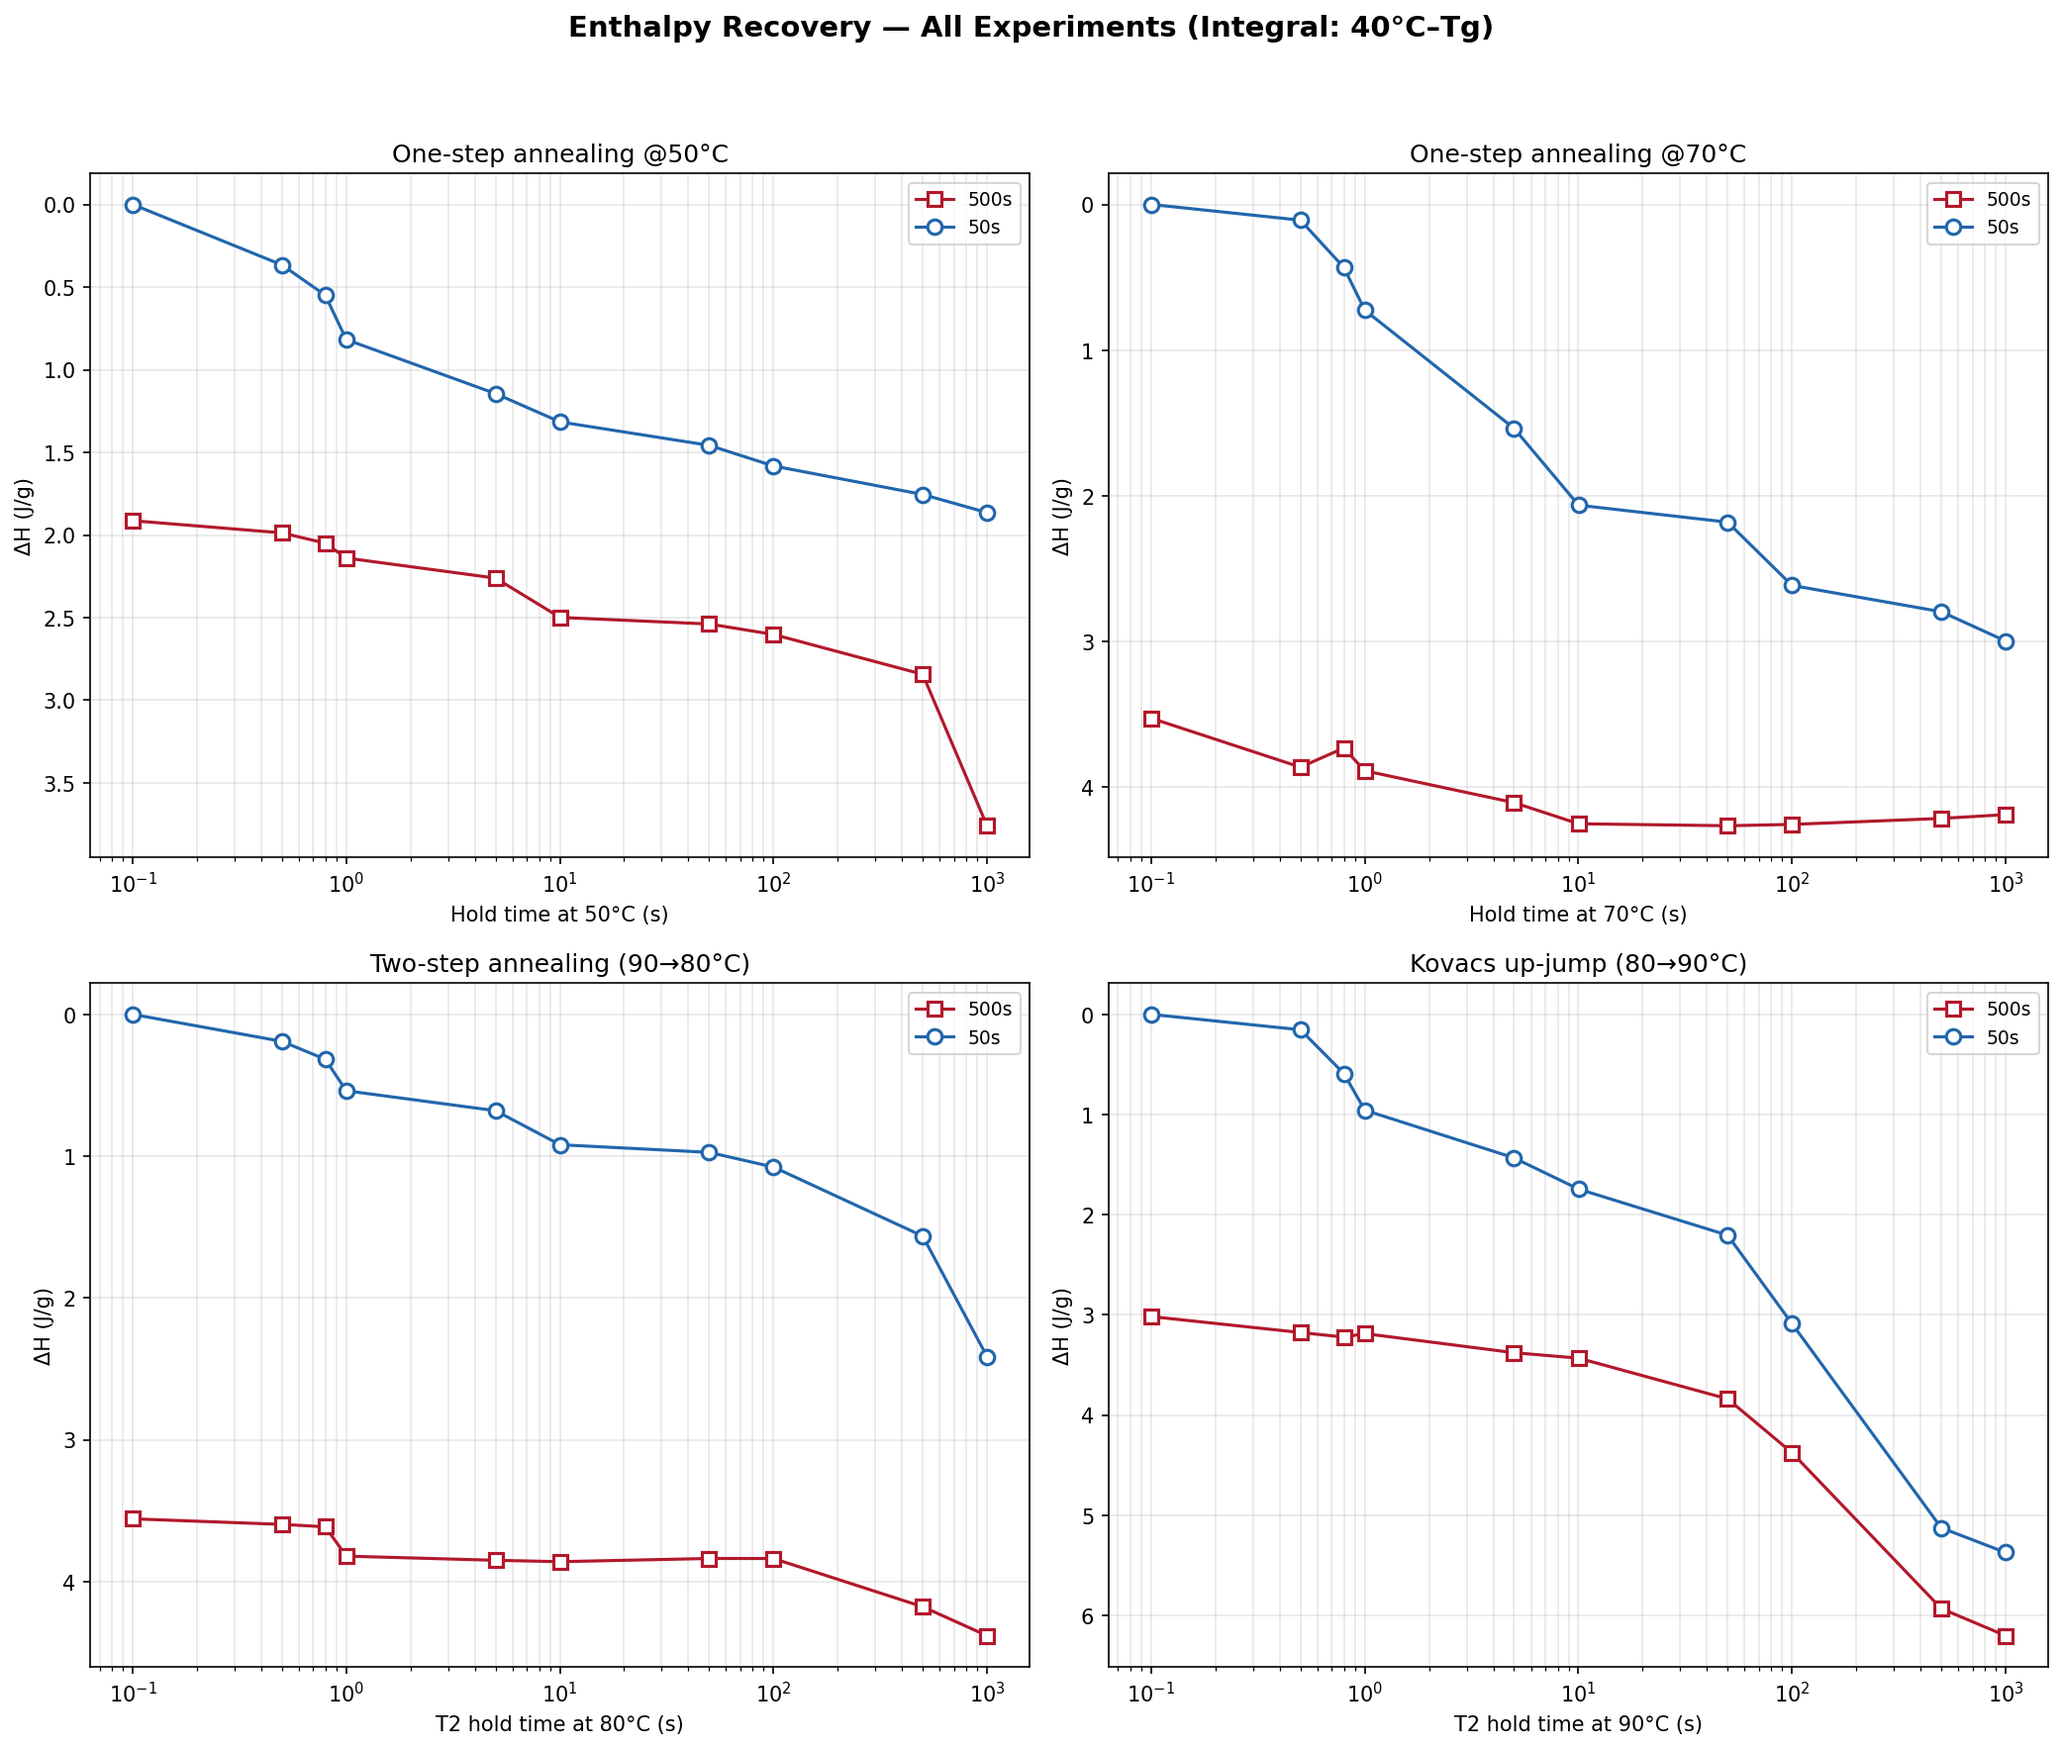
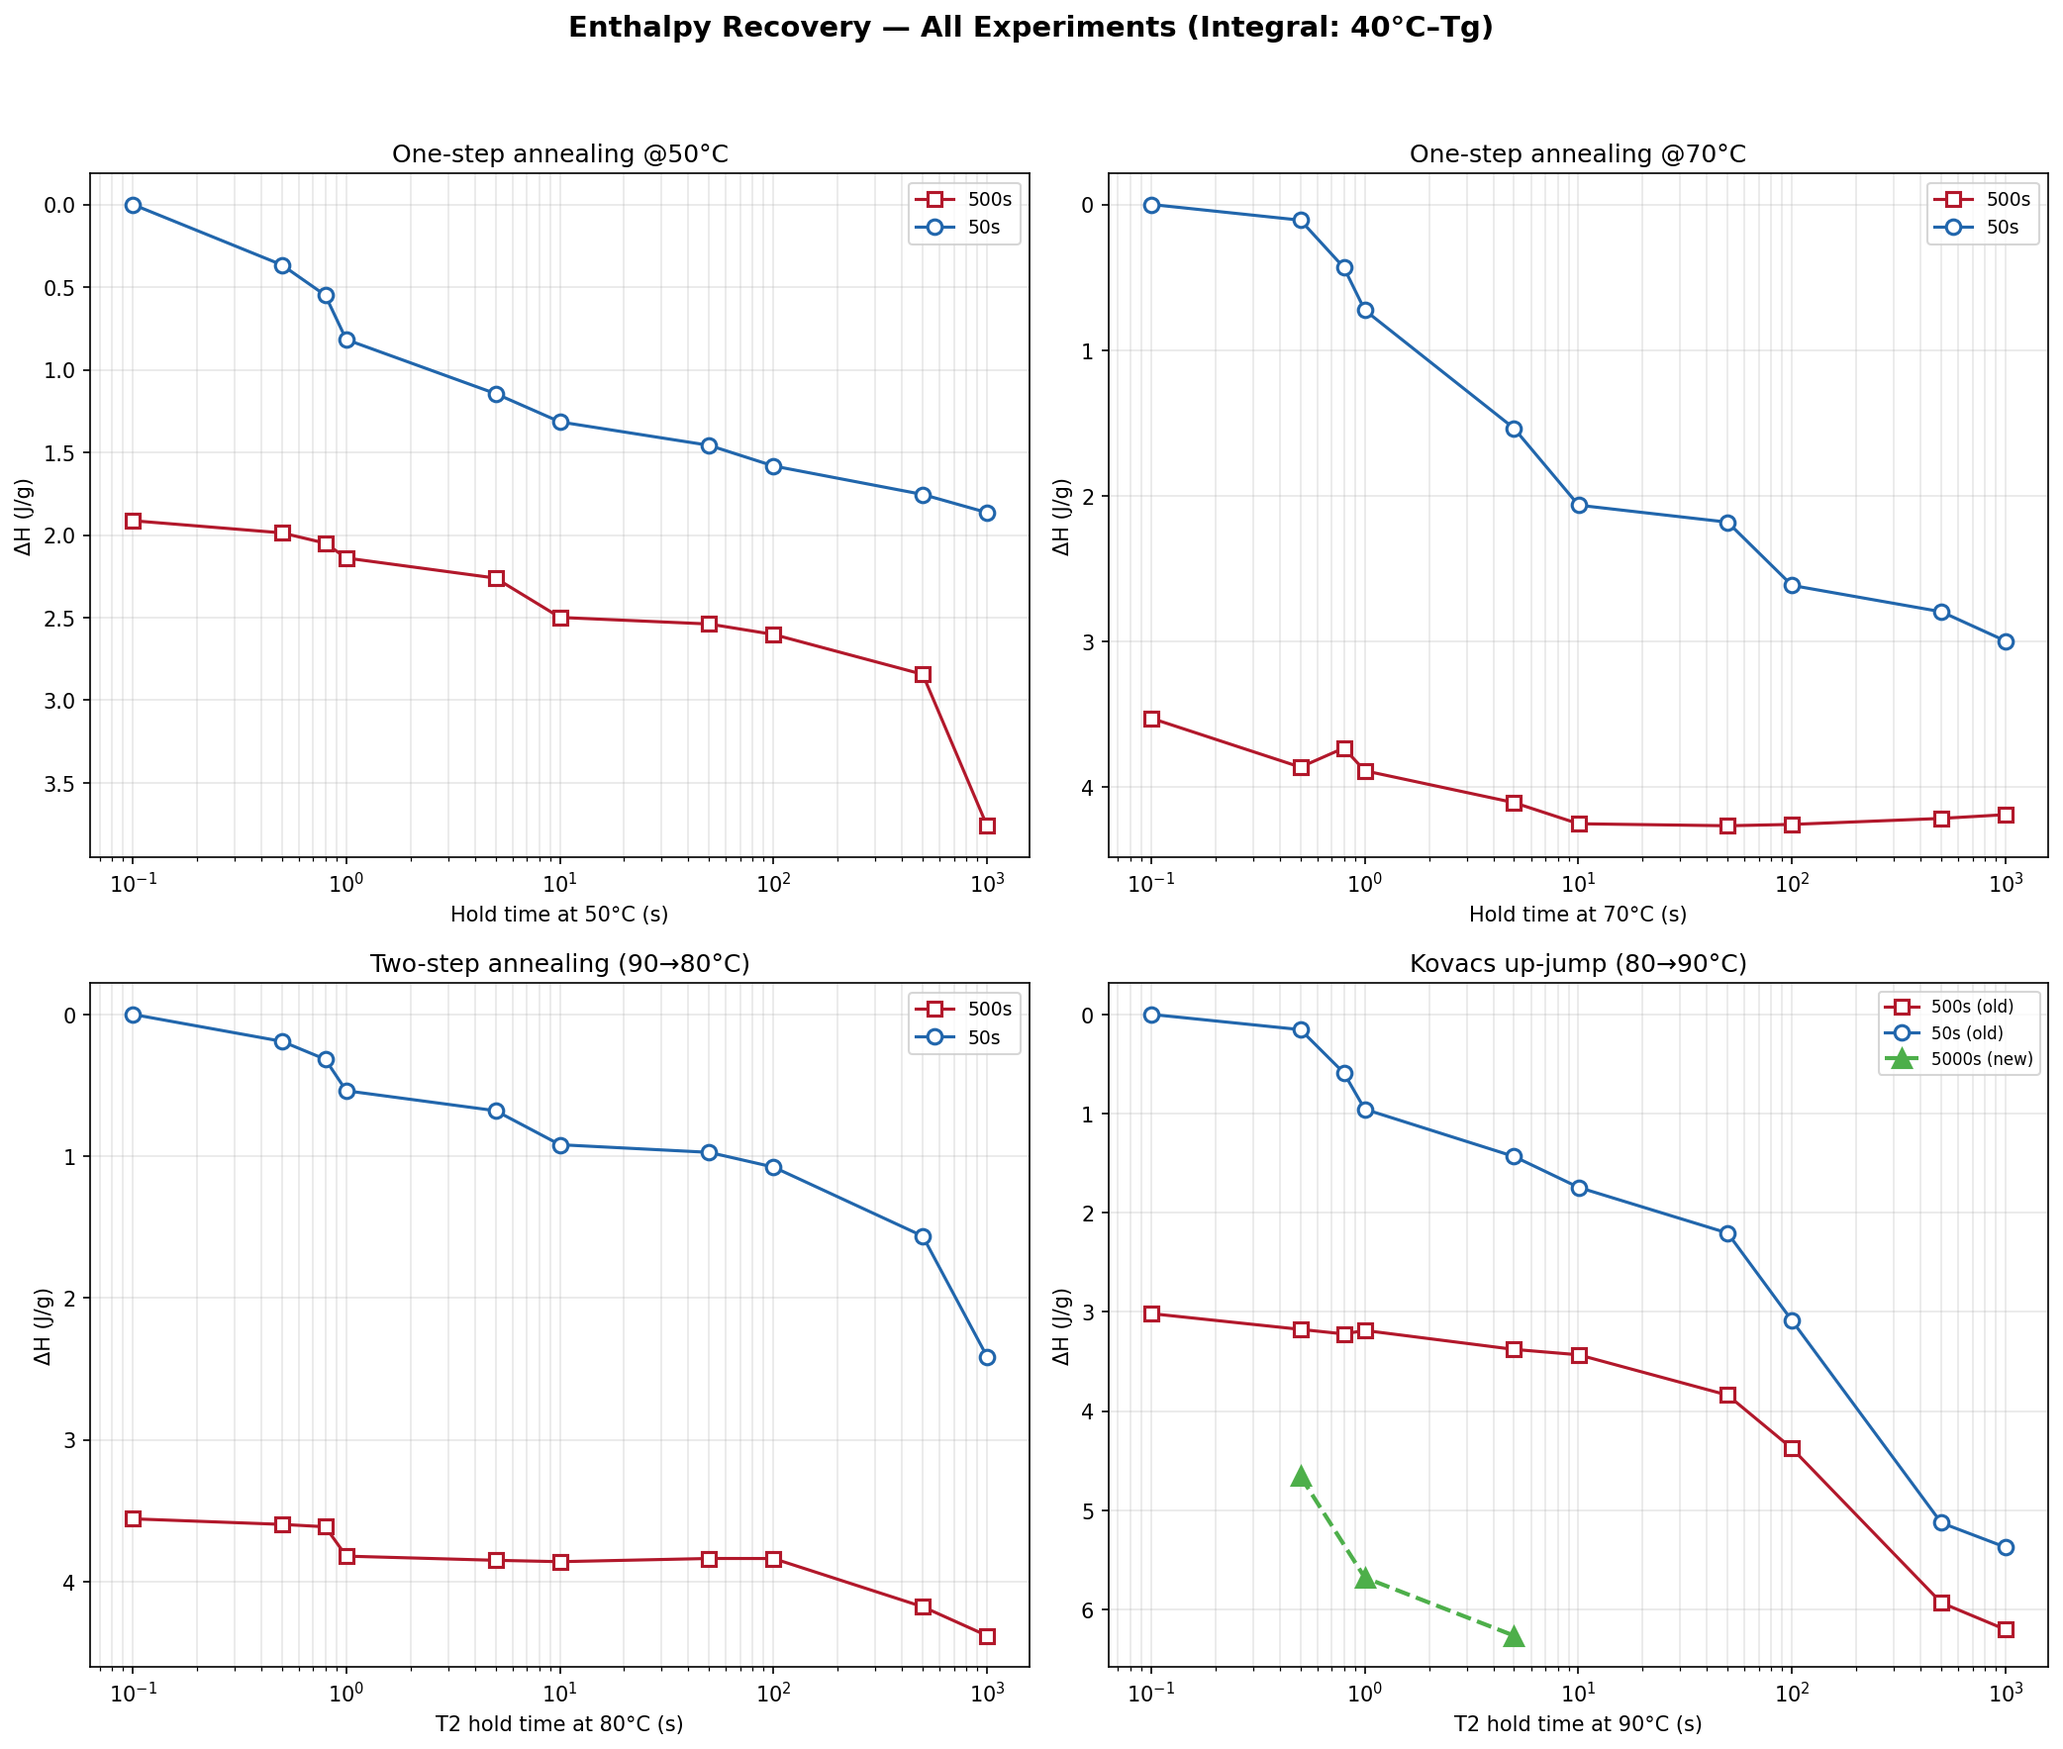
2026-05-18 17:09 - auto commit

diff --git a/src/export_enthalpy.py b/src/export_enthalpy.py
@@ -540,14 +540,17 @@ def main():
 
     # ── Generate plots ──
     print(f"\n[6/7] Generating combined result plots...")
-    plot_all_results(df_os_50, df_os_70, df_ts, df_kov, t_int_low)
+    plot_all_results(df_os_50, df_os_70, df_ts, df_kov, t_int_low,
+                     df_kov_new=df_kov_new)
 
     print(f"\n[7/7] Generating new Kovacs 80→90°C plot...")
     plot_kovacs_new(df_kov_new, ref_T_onset, t_int_low)
 
 
-def plot_all_results(df_os_50, df_os_70, df_ts, df_kov, t_int_low=None):
-    """Generate 2x2 comparison plot for all experiments."""
+def plot_all_results(df_os_50, df_os_70, df_ts, df_kov, t_int_low=None,
+                     df_kov_new=None):
+    """Generate 2x2 comparison plot for all experiments.
+    If df_kov_new is provided, it is overlaid on the Kovacs panel."""
     import matplotlib
     matplotlib.use('Agg')
     import matplotlib.pyplot as plt
@@ -566,12 +569,13 @@ def plot_all_results(df_os_50, df_os_70, df_ts, df_kov, t_int_low=None):
     def _get_group_colors_markers(all_dfs):
         all_groups = set()
         for df in all_dfs:
-            all_groups.update(_get_groups(df))
+            if df is not None:
+                all_groups.update(_get_groups(df))
         groups_sorted = sorted(all_groups, key=lambda x: int(x.replace('s', '')) if x.replace('s', '').isdigit() else 0)
         return ({g: color_cycle[i % len(color_cycle)] for i, g in enumerate(groups_sorted)},
                 {g: marker_cycle[i % len(marker_cycle)] for i, g in enumerate(groups_sorted)})
 
-    colors, markers = _get_group_colors_markers([df_os_50, df_os_70, df_ts, df_kov])
+    colors, markers = _get_group_colors_markers([df_os_50, df_os_70, df_ts, df_kov, df_kov_new])
 
     def plot_one(ax, df, title, x_col, xlabel):
         grp_col = 'cooling_group' if 'cooling_group' in df.columns else 'T1_group'
@@ -601,22 +605,32 @@ def plot_all_results(df_os_50, df_os_70, df_ts, df_kov, t_int_low=None):
     plot_one(axes[1, 0], df_ts, 'Two-step annealing (90→80°C)', 'T2_hold_s',
              'T2 hold time at 80°C (s)')
 
-    # Panel 4: Kovacs
+    # Panel 4: Kovacs (old + new overlaid)
     ax4 = axes[1, 1]
     grp_col = 'T1_group'
+    # Old Kovacs data — solid lines
     for grp in sorted(df_kov[grp_col].unique()):
         g = df_kov[df_kov[grp_col] == grp]
         if len(g) > 0:
             ax4.plot(g['T2_hold_s'], g['delta_H_J_per_g'],
                      marker=markers.get(grp, 'o'), color=colors.get(grp, 'gray'),
                      linewidth=1.5, markersize=7, markerfacecolor='white',
-                     markeredgewidth=1.5, label=grp)
+                     markeredgewidth=1.5, linestyle='-', label=f'{grp} (old)')
+    # New Kovacs data — dashed lines with larger markers
+    if df_kov_new is not None and len(df_kov_new) > 0:
+        for grp in sorted(df_kov_new[grp_col].unique()):
+            g = df_kov_new[df_kov_new[grp_col] == grp]
+            if len(g) > 0:
+                ax4.plot(g['T2_hold_s'], g['delta_H_J_per_g'],
+                         marker=markers.get(grp, 'o'), color=colors.get(grp, 'gray'),
+                         linewidth=2.0, markersize=9, markerfacecolor=colors.get(grp, 'gray'),
+                         markeredgewidth=1.5, linestyle='--', label=f'{grp} (new)')
     ax4.set_xlabel('T2 hold time at 90°C (s)')
     ax4.set_ylabel('ΔH (J/g)')
     ax4.set_title('Kovacs up-jump (80→90°C)')
     ax4.set_xscale('log')
     ax4.invert_yaxis()
-    ax4.legend(fontsize=9)
+    ax4.legend(fontsize=8)
     ax4.grid(True, alpha=0.3, which='both')
 
     plt.tight_layout(rect=[0, 0, 1, 0.95])
